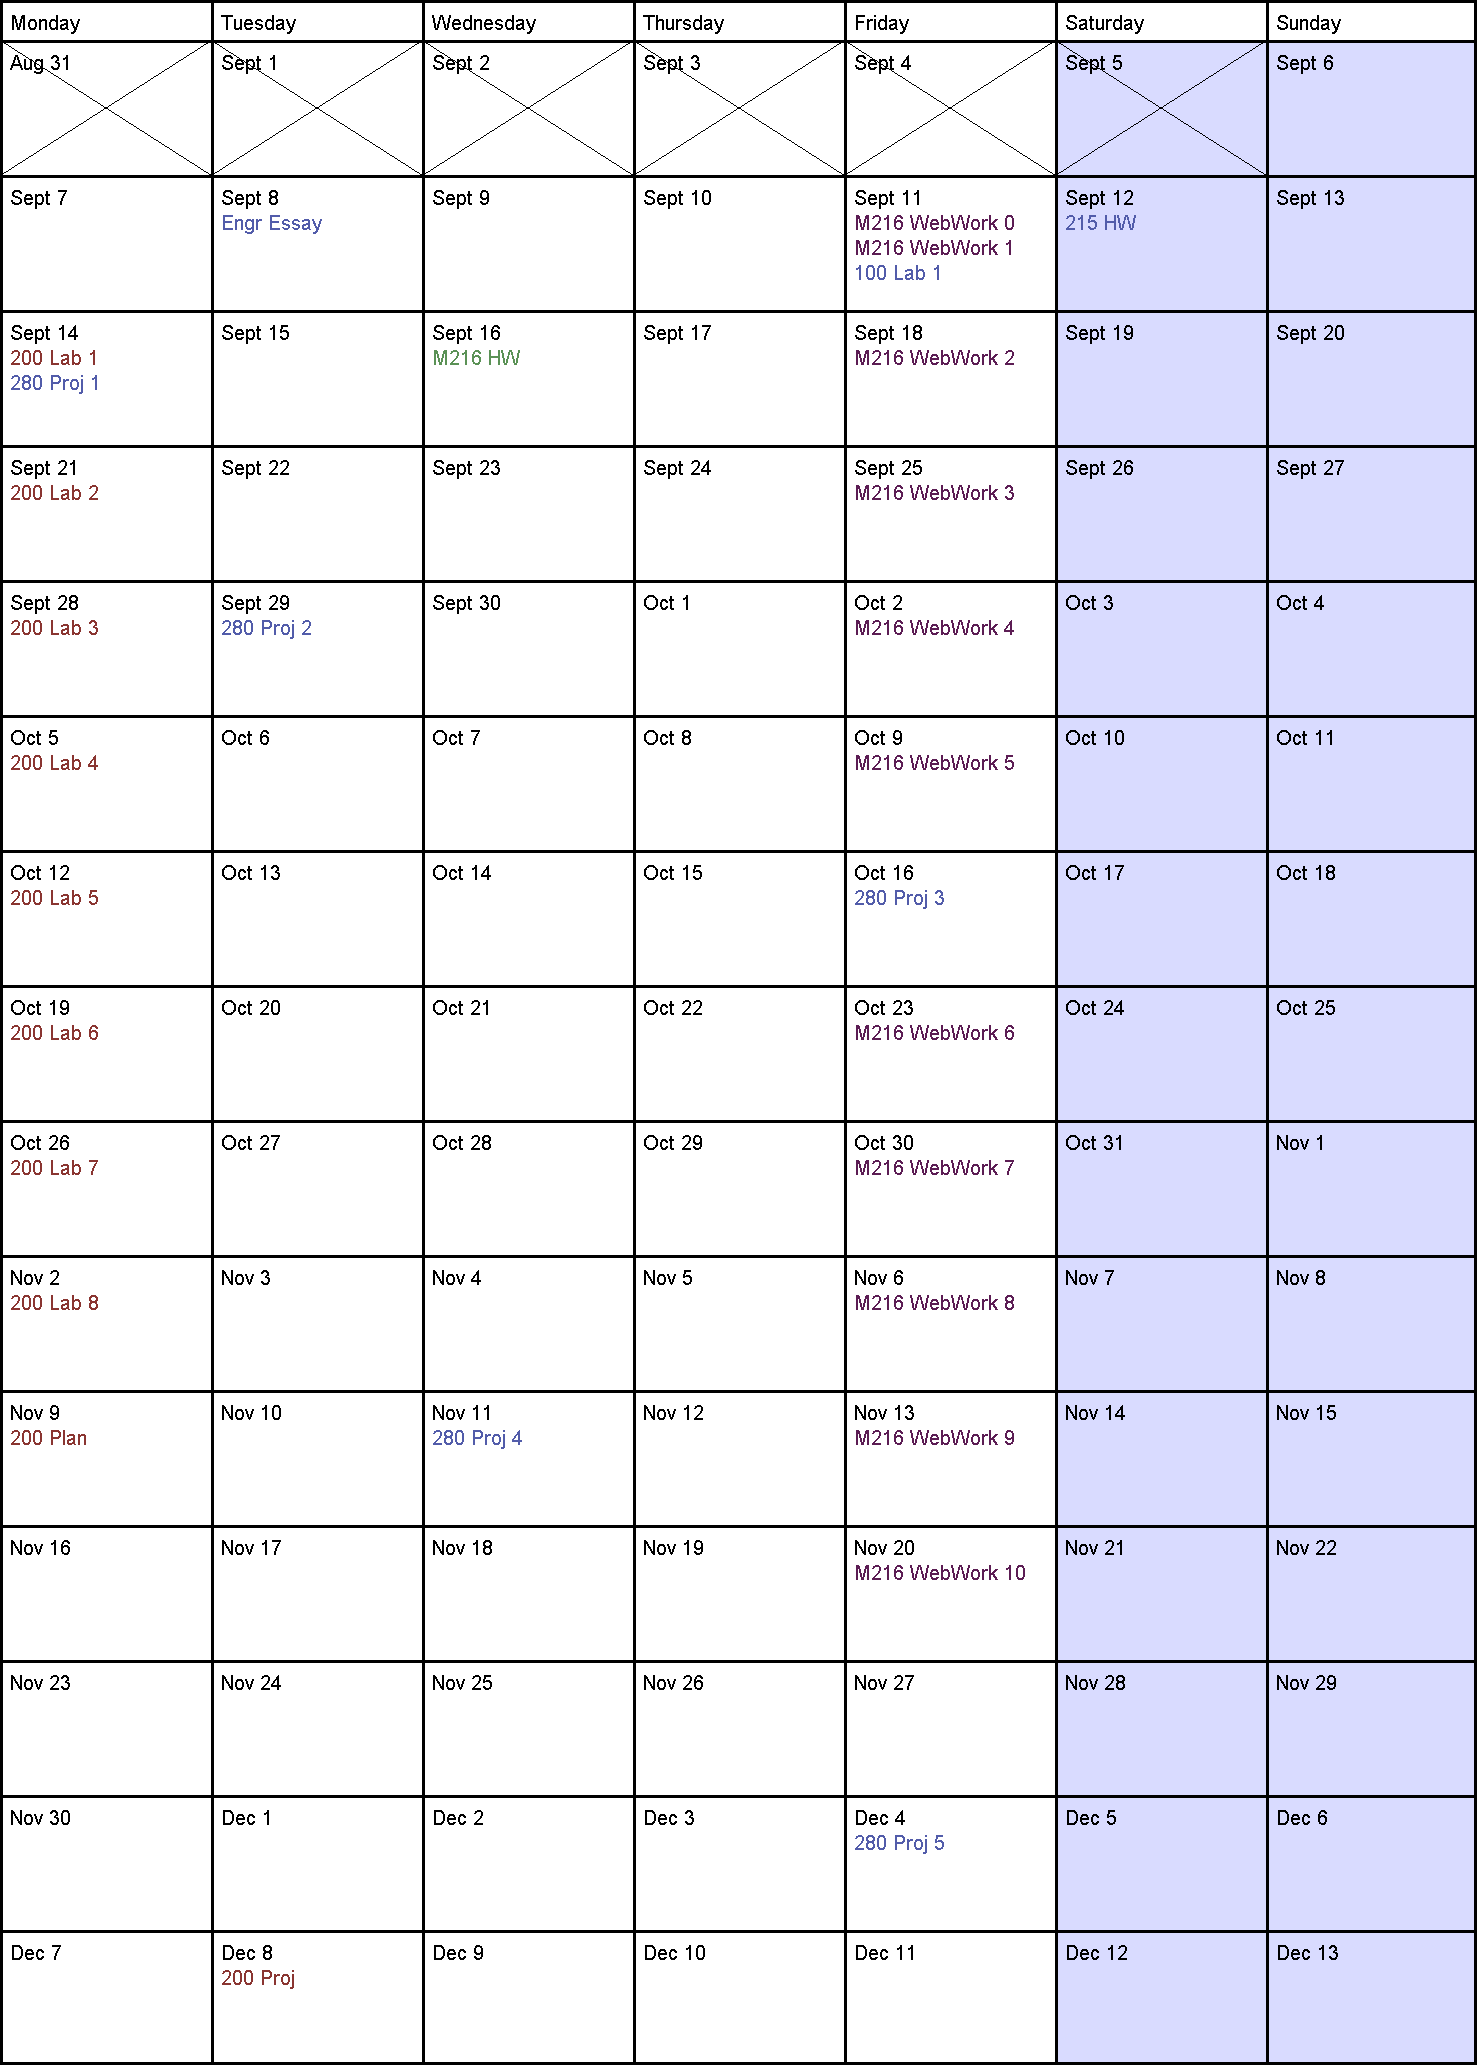
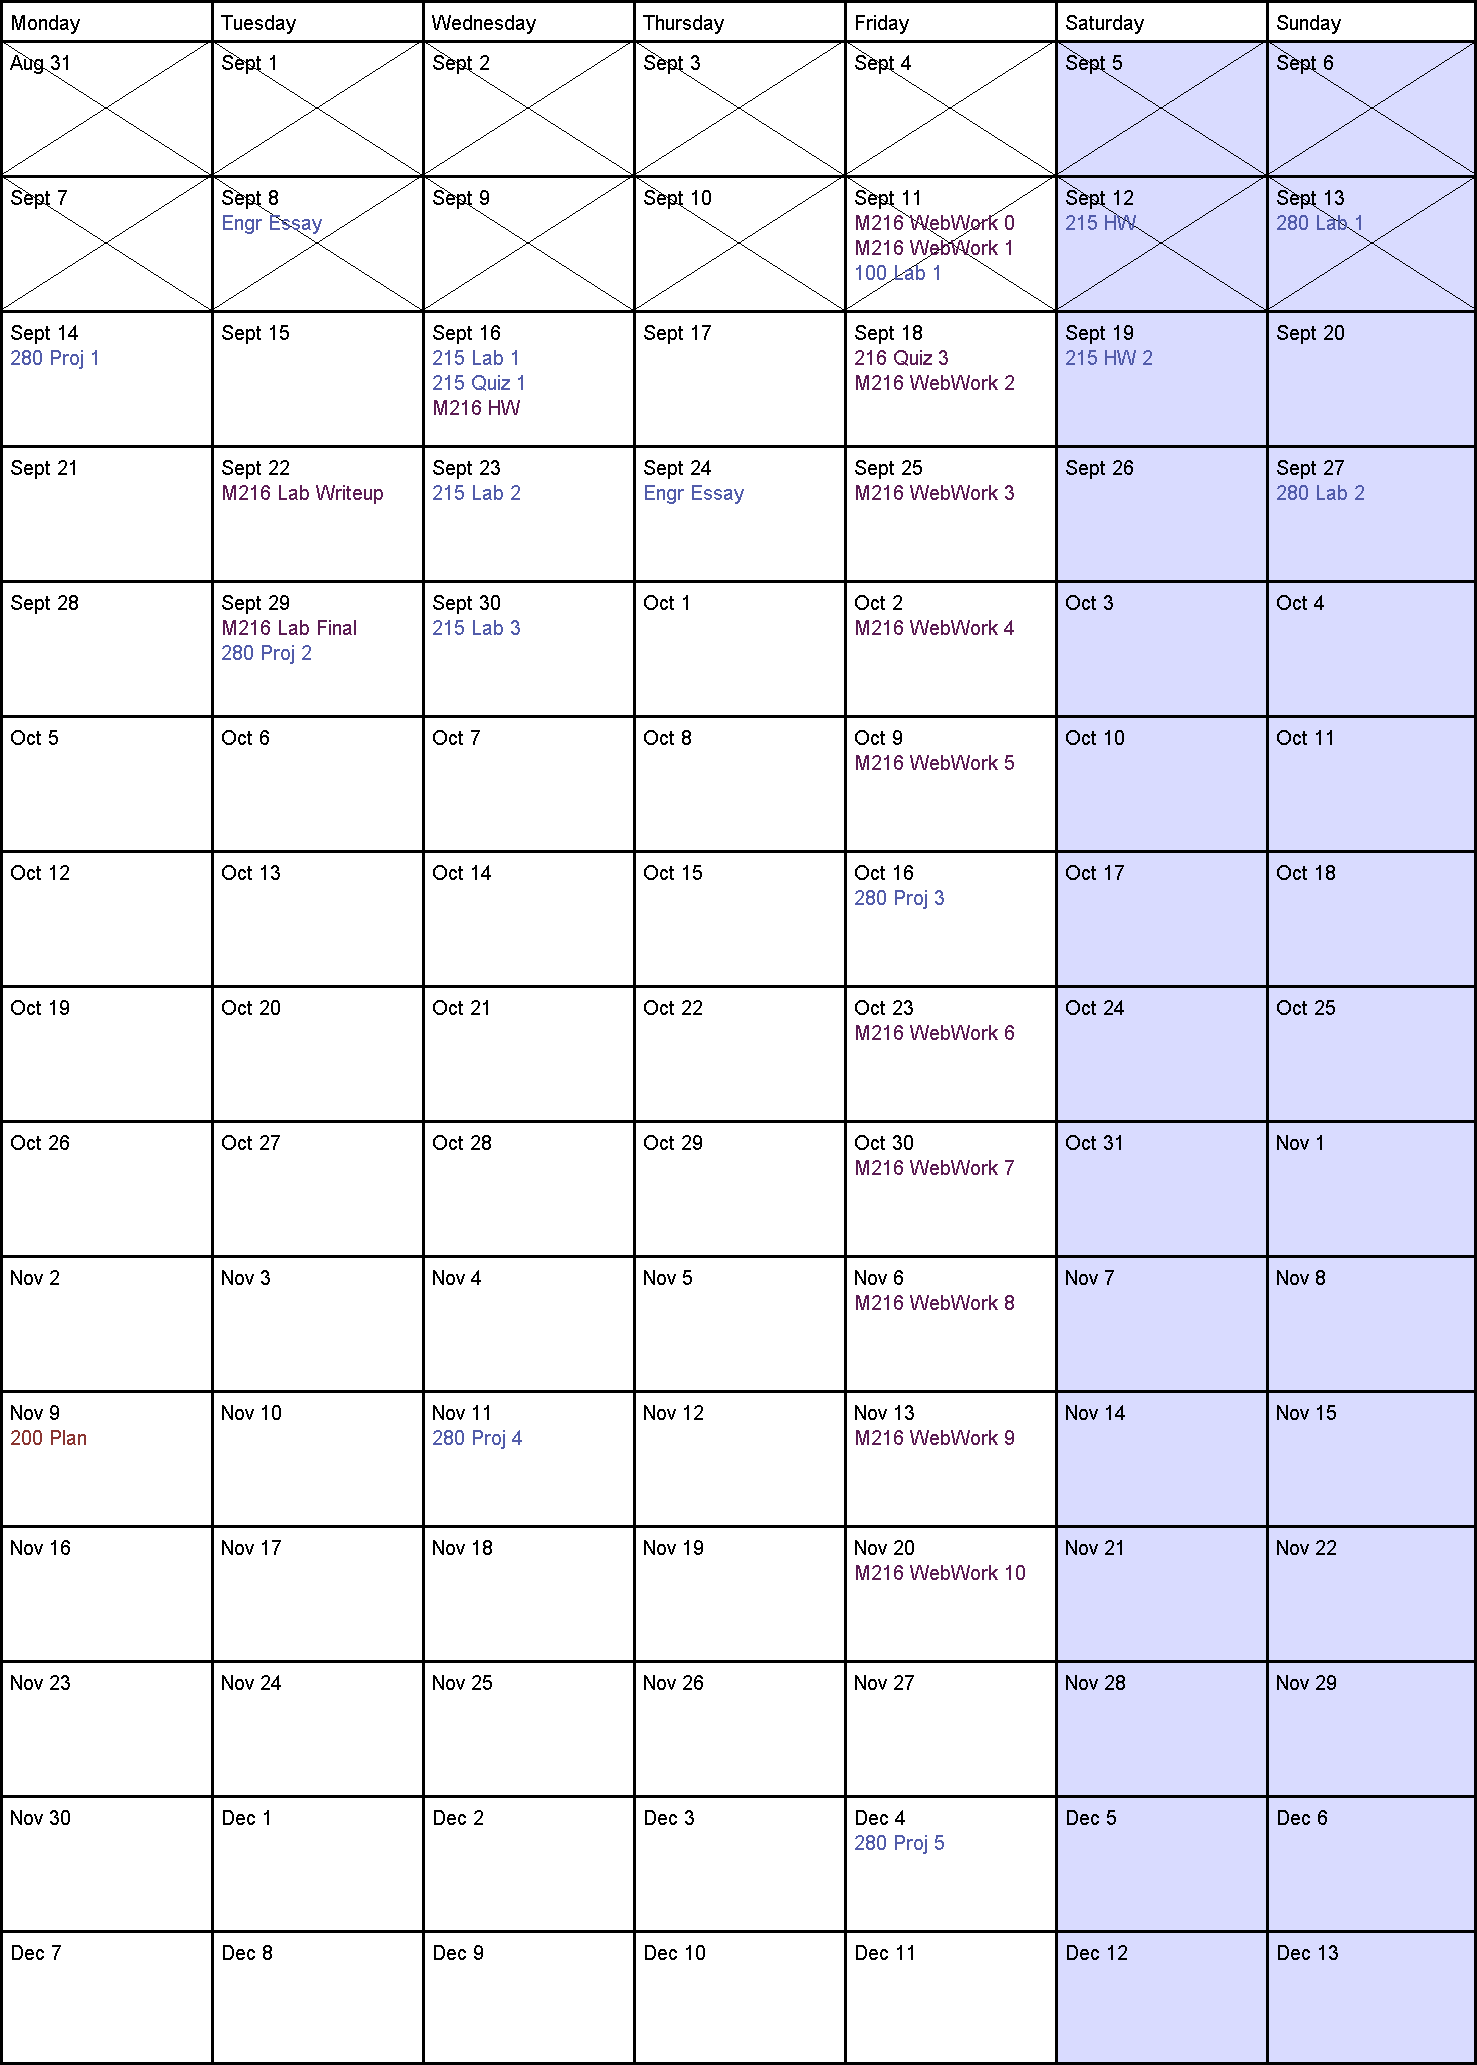
calendar update

diff --git a/src/Calendar.java b/src/Calendar.java
@@ -85,10 +85,19 @@ public class Calendar extends Applet implements Runnable, KeyListener {
     public void addEvents(){
         addWeeklyEvents();
         addEvent("Engr Essay", getDayofYear(8,9), 1);
+        addEvent("Engr Essay", getDayofYear(24,9), 1);
         addEvent("215 HW", getDayofYear(12,9), 1);
-        addEvent("M216 HW", getDayofYear(16,9), 3);
+        addEvent("215 HW 2", getDayofYear(19,9), 1);
+        addEvent("215 Lab 1", getDayofYear(16,9), 1);
+        addEvent("215 Lab 2", getDayofYear(23,9), 1);
+        addEvent("215 Lab 3", getDayofYear(30,9), 1);
+        addEvent("215 Quiz 1", getDayofYear(16,9), 1);
+        addEvent("216 Quiz 3", getDayofYear(18,9), 4);
+        addEvent("M216 HW", getDayofYear(16,9), 4);
         addEvent("M216 WebWork 0", getDayofYear(11,9), 4);
         addEvent("M216 WebWork 1", getDayofYear(11,9), 4);
+        addEvent("M216 Lab Writeup", getDayofYear(22,9), 4);
+        addEvent("M216 Lab Final", getDayofYear(29,9), 4);
         addEvent("M216 WebWork 2", getDayofYear(18,9), 4);
         addEvent("M216 WebWork 3", getDayofYear(25,9), 4);
         addEvent("M216 WebWork 4", getDayofYear(2,10), 4);
@@ -99,17 +108,10 @@ public class Calendar extends Applet implements Runnable, KeyListener {
         addEvent("M216 WebWork 9", getDayofYear(13,11), 4);
         addEvent("M216 WebWork 10", getDayofYear(20,11), 4);
         addEvent("100 Lab 1", getDayofYear(11,9), 1);
-        addEvent("200 Lab 1", getDayofYear(14,9), 2);
-        addEvent("200 Lab 2", getDayofYear(21,9), 2);
-        addEvent("200 Lab 3", getDayofYear(28,9), 2);
-        addEvent("200 Lab 4", getDayofYear(5,10), 2);
-        addEvent("200 Lab 5", getDayofYear(12,10), 2);
-        addEvent("200 Lab 6", getDayofYear(19,10), 2);
-        addEvent("200 Lab 7", getDayofYear(26,10), 2);
-        addEvent("200 Lab 8", getDayofYear(2,11), 2);
         addEvent("200 Plan", getDayofYear(9,11), 2);
-        addEvent("200 Proj", getDayofYear(8,12), 2);
         addEvent("280 Proj 1", getDayofYear(14,9), 1);
+        addEvent("280 Lab 1", getDayofYear(13,9), 1);
+        addEvent("280 Lab 2", getDayofYear(27,9), 1);
         addEvent("280 Proj 2", getDayofYear(29,9), 1);
         addEvent("280 Proj 3", getDayofYear(16,10), 1);
         addEvent("280 Proj 4", getDayofYear(11,11), 1);
